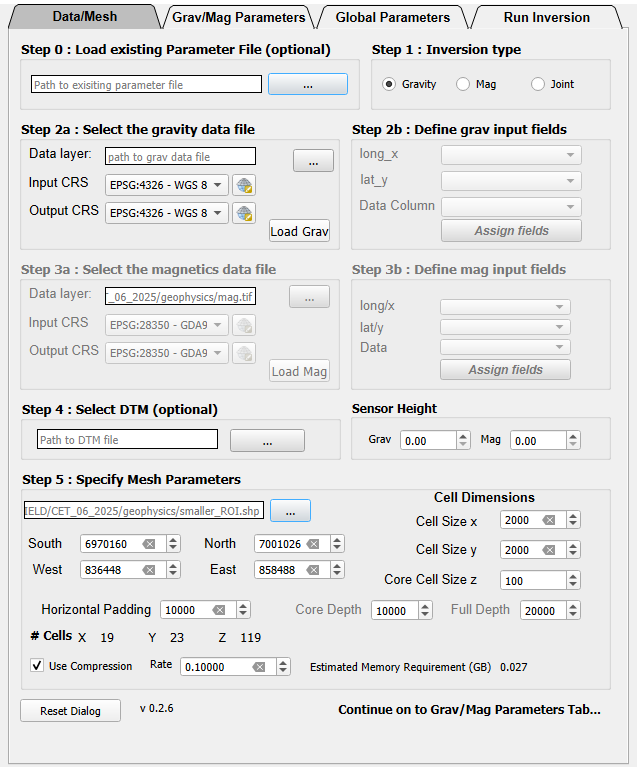
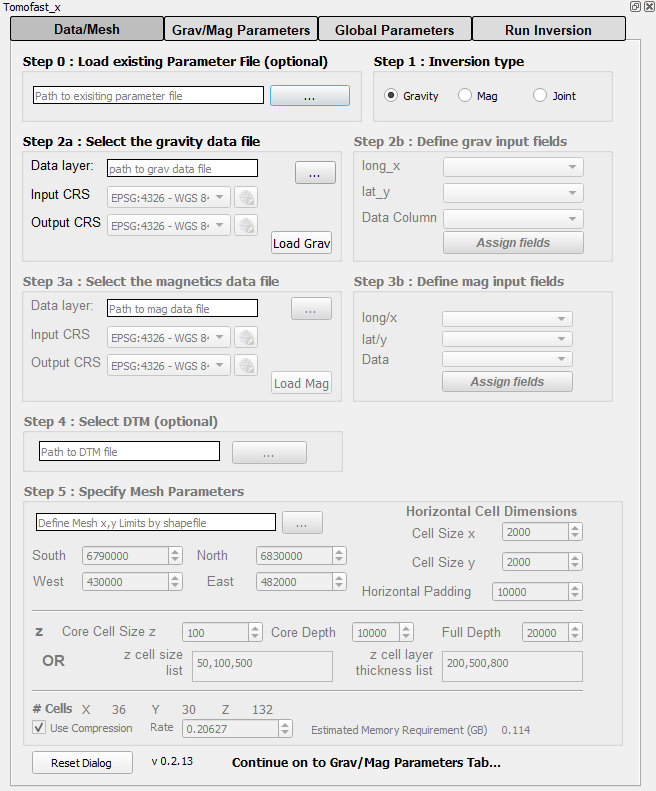
add link to cheat sheet, update tab 1 image

diff --git a/Tomofast_x.py b/Tomofast_x.py
@@ -850,6 +850,13 @@ class Tomofast_x:
                     )
                 )
             )
+            self.dlg.pushButton_plugin_cheat_sheat.clicked.connect(
+                lambda: QDesktopServices.openUrl(
+                    QUrl(
+                        "https://tectonique.net/tomofast-x-q/Tomofast-x-q%20cheat%20sheet.pdf"
+                    )
+                )
+            )
             self.dlg.pushButton_tomofast_manual.clicked.connect(
                 lambda: QDesktopServices.openUrl(
                     QUrl(
